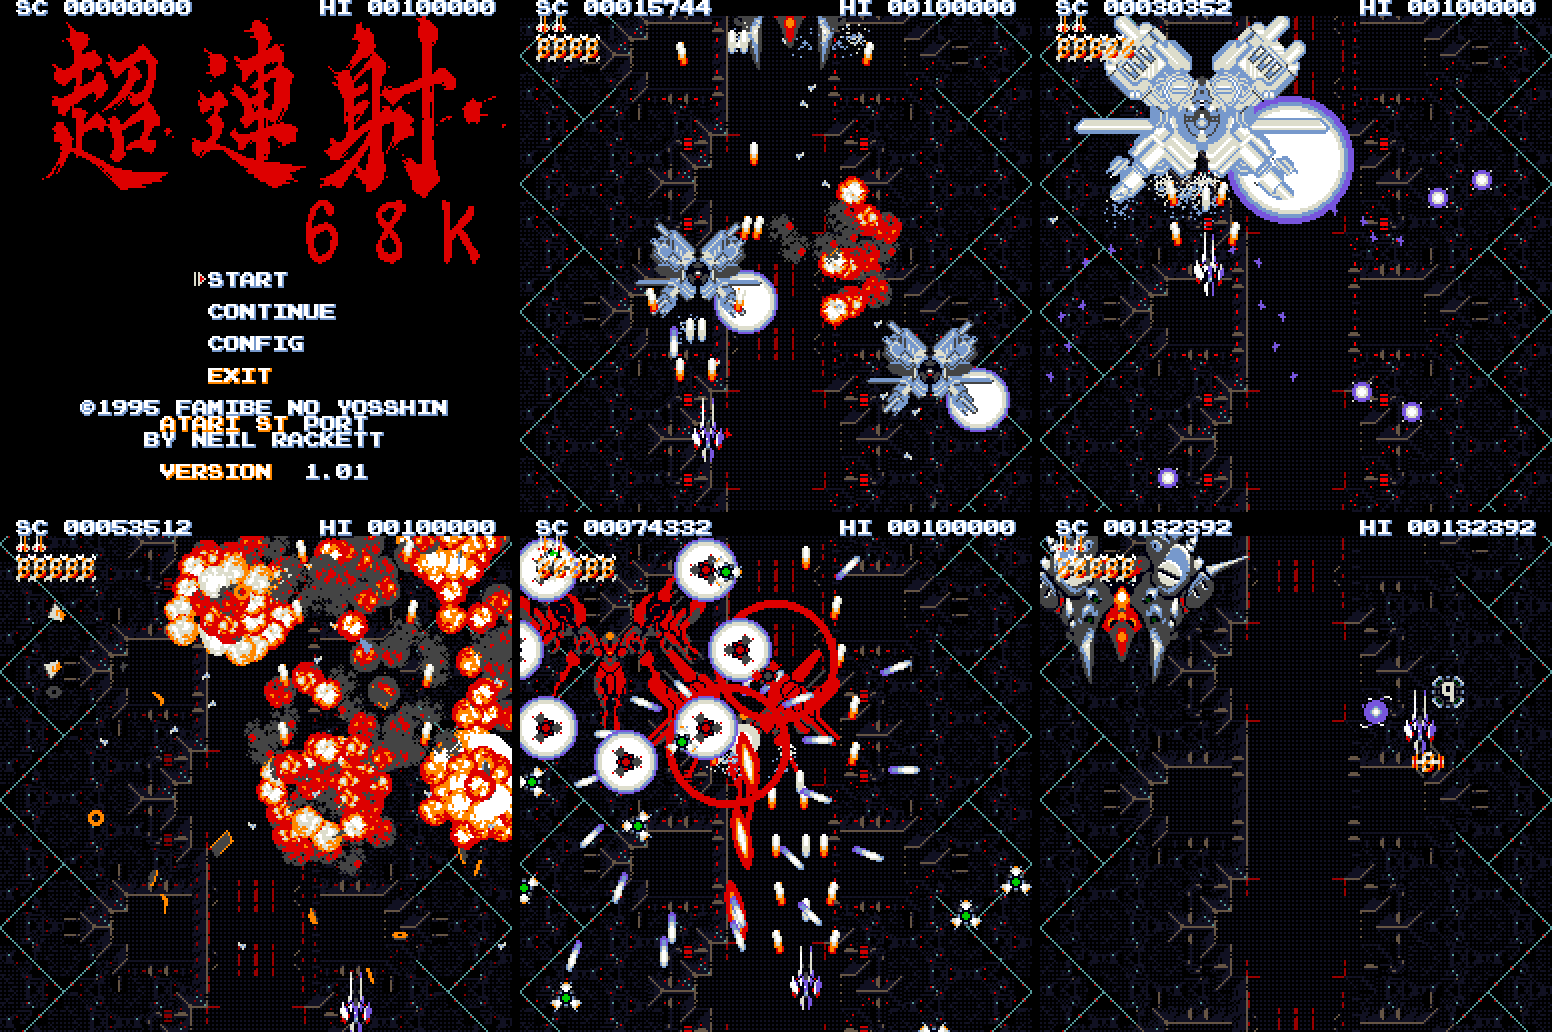
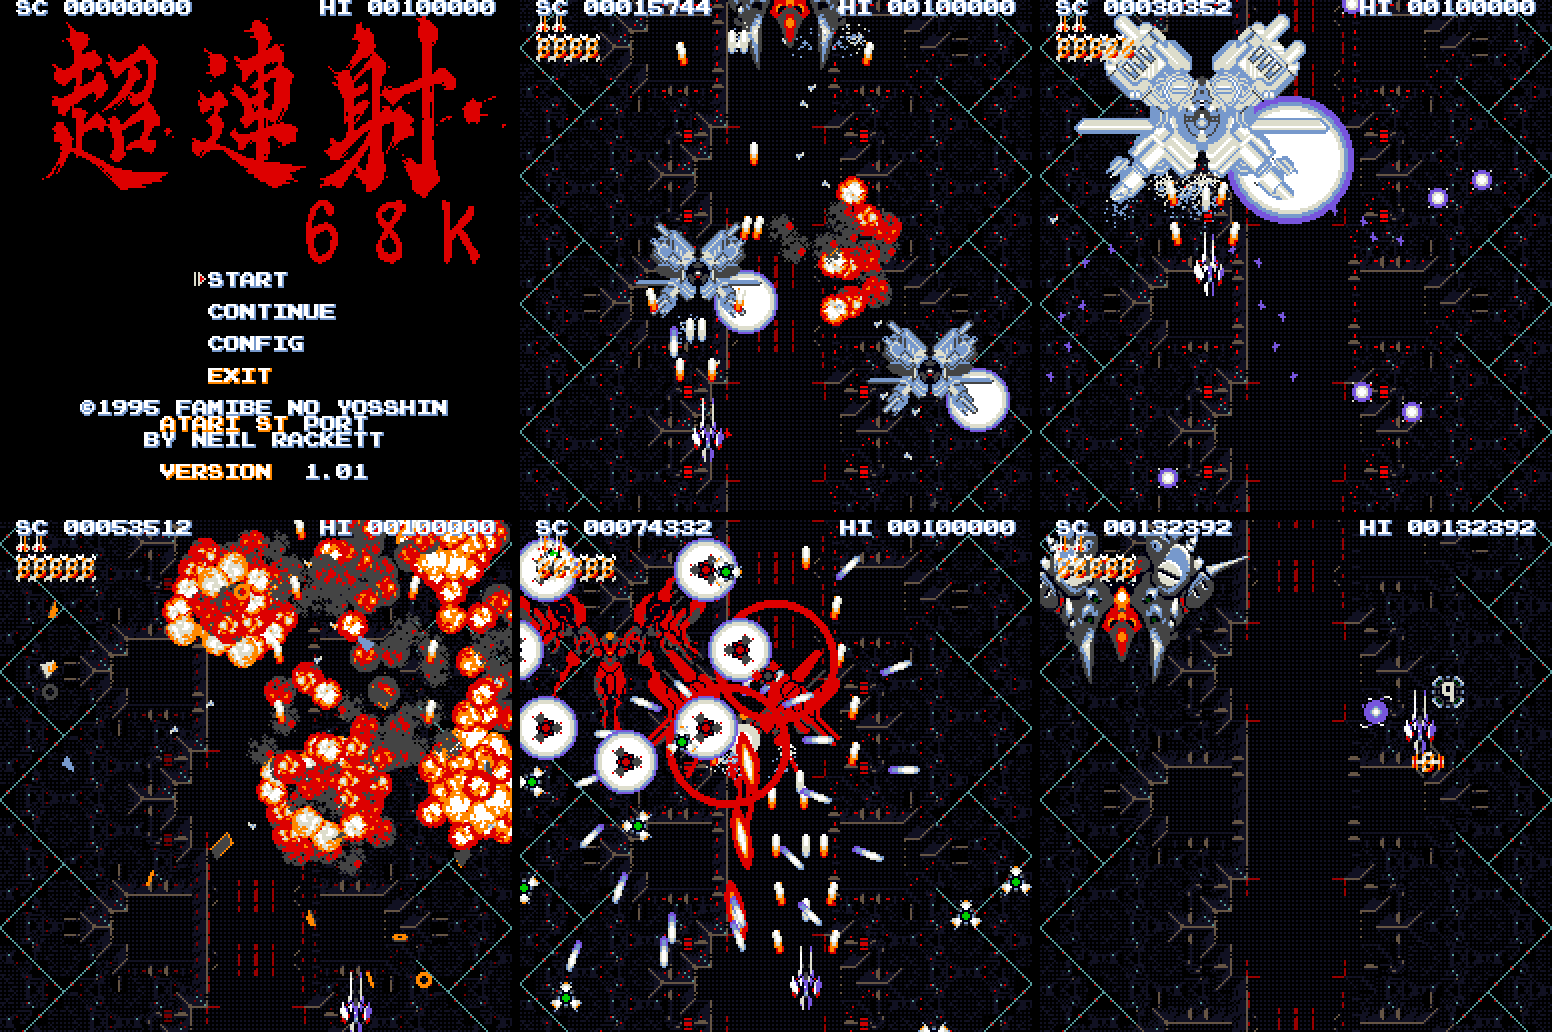
st: the score over the playfield, as on the X68000 (hud=band: a band)
The ST drew the score (the text layer's row 0) into a black band of its
own, lines 0-7 of every screen, once when it changed, with the playfield
below it. On the X68000 the playfield goes on behind it. Now so does the
ST's: in crop the window shows 200 of the playfield's lines, the score
over the top, and at full height all 256. The score is drawn over each
picture, masked, with the lives and bombs (rows 0-3 stay at the top of
the screen).

The band stays as SZ2.CFG's hud=band. Its playfield starts at line 8, a
variable now (display.s: playfield_top), which the background copy, the
sprites' clipping and the text rows read. On an STE the score costs 2.4
ms a picture over the playfield, the background 0.5 and the sprites 1.5:
the attract demo shows 11.6, 11.7 and 16.5 pictures per second on an ST,
an STE and a Mega STE (12.4, 12.5 and 17.2 with the band), 9.6, 9.4 and
14.2 at full height (10.2, 9.9 and 14.8). Every checkpoint matches in
both, and the pixel oracle (refrender.py, told the layout by the frame
dump) is 12 of 12 in both.

The README's screenshots are taken again at the same moments of the
attract demo, at full height.

diff --git a/tools/st/refrender.py b/tools/st/refrender.py
@@ -95,7 +95,7 @@ def font_pixel(font, code, row, x):
 
 
 def render(dump, page0, page1, patterns, font, sprite_map, representatives):
-    (magic, window, visible, _, y0, y1, r1, count) = struct.unpack(">4sHBBhhHH", dump[:16])
+    (magic, window, visible, band, y0, y1, r1, count) = struct.unpack(">4sHBBhhHH", dump[:16])
     if magic != b"CRSF":
         raise SystemExit("not a CRSF frame dump")
     vc = struct.unpack(">512H", dump[16:16 + 0x400])
@@ -105,17 +105,21 @@ def render(dump, page0, page1, patterns, font, sprite_map, representatives):
 
     screen = [[0] * 320 for _ in range(200)]
 
-    # HUD band: text row 0, opaque.
-    for column in range(32):
-        code = characters[column]
-        for r in range(8):
-            for x in range(8):
-                c = font_pixel(font, code, r, x)
-                screen[r][32 + column * 8 + x] = sprite_map[c] if c else 0
+    # The playfield's first line: 0, the score (text row 0) drawn over it as
+    # the other rows, or with hud=band 8, below the HUD band: text row 0,
+    # opaque.
+    top = 8 if band else 0
+    if band:
+        for column in range(32):
+            code = characters[column]
+            for r in range(8):
+                for x in range(8):
+                    c = font_pixel(font, code, r, x)
+                    screen[r][32 + column * 8 + x] = sprite_map[c] if c else 0
 
     # Playfield background.
     if visible:
-        for y in range(8, 200):
+        for y in range(top, 200):
             g = y + window
             a = (g + y0) & 255
             b = (g + y1) & 31
@@ -139,7 +143,7 @@ def render(dump, page0, page1, patterns, font, sprite_map, representatives):
                 data = patterns[pattern * 128:pattern * 128 + 128]
                 for py in range(16):
                     sy = y - 16 - window + py
-                    if sy < 8 or sy > 199:
+                    if sy < top or sy > 199:
                         continue
                     row = 15 - py if info & 0x8000 else py
                     for px in range(16):
@@ -149,15 +153,15 @@ def render(dump, page0, page1, patterns, font, sprite_map, representatives):
                             screen[sy][x + 16 + px] = sprite_map[palette * 16 + nibble]
 
     def draw_text():
-        for row in range(1, 32):
+        for row in range(1 if band else 0, 32):
             for column in range(32):
                 code = characters[row * 32 + column]
                 if code == SPACE:
                     continue
                 for r in range(8):
-                    # Rows 1-3 (lives, bombs) stay at the playfield's top.
+                    # Rows 0-3 (score, lives, bombs) stay at the top.
                     sy = row * 8 + r - (window if row >= 4 else 0)
-                    if sy < 8 or sy > 199:
+                    if sy < top or sy > 199:
                         continue
                     for x in range(8):
                         c = font_pixel(font, code, r, x)
@@ -172,7 +176,7 @@ def render(dump, page0, page1, patterns, font, sprite_map, representatives):
         draw_sprites()
 
     # Borders of the playfield lines.
-    for y in range(8, 200):
+    for y in range(top, 200):
         for x in list(range(32)) + list(range(288, 320)):
             screen[y][x] = 0
 

diff --git a/docs/ST_PORT.md b/docs/ST_PORT.md
@@ -46,6 +46,11 @@ build, against the STE's 946 KB).
 - **Drawing sets the picture rate.** On an STE a picture takes about 45 ms:
   12-13 for the background, 25-28 for the sprites, 3-4 for the text. That
   is about one picture every 4 frames, or every 3 on a Mega STE.
+- **The score over the playfield costs about 6%** (4% on a Mega STE).
+  These figures were measured with the score in its band, as `hud=band`
+  draws it; over the playfield, as on the X68000 and the default since,
+  the attract demo shows 11.6, 11.7 and 16.5 pictures per second on an
+  ST, an STE and a Mega STE (see Display).
 - **The music costs about 1%.** These figures were measured before the
   music (as `music=false` plays). With it, the sprite cache is 30 KB
   smaller, and the attract demo shows 12.5 pictures per second on an ST
@@ -257,15 +262,28 @@ What is new is the picture.
 ST low resolution, triple-buffered, drawn in bitplanes. In crop (the
 default; full height is below):
 
-- **Lines 0-7, the HUD band:** the X68000 text layer's row 0 (score, high
-  score), drawn into all three screens when the game writes it.
-- **Lines 8-199, the playfield:** 192 of the X68000's 256 lines at their
-  real size, 32 pixels from the left.
+- **Lines 0-199, the playfield:** 200 of the X68000's 256 lines at their
+  real size, 32 pixels from the left, with the X68000 text layer's row 0
+  (score, high score) over its top, as on the X68000.
   - In a stage the window follows the ship, which sits two thirds of the
     way down; it moves at most 2 lines per frame.
-  - Elsewhere, or after F2, the window shows lines 32-223, and lines
-    48-239 while the game's hidden menu is open (its title to its EXIT).
-  - The lives and bombs (text rows 1-3) stay at the top of the playfield.
+  - Elsewhere, or after F2, the window shows lines 24-223, and lines
+    40-239 while the game's hidden menu is open (its title to its EXIT).
+  - The score, lives and bombs (text rows 0-3) stay at the top of the
+    screen, drawn over each picture.
+- **With `hud=band`:** lines 0-7 are the HUD band instead, the score drawn
+  into all three screens when the game writes it (opaque, on colour 0),
+  and the playfield is lines 8-199, 192 lines. A picture then draws 8
+  lines of background fewer and the score not at all: on an STE the score
+  costs 2.4 ms a picture over the playfield (about 20 characters, masked),
+  the background 0.5 and the sprites over it 1.5. In the attract demo:
+
+  | Pictures per second        | ST   | STE  | Mega STE |
+  | -------------------------- | ---- | ---- | -------- |
+  | Crop, score over (default) | 11.6 | 11.7 | 16.5     |
+  | Crop, `hud=band`           | 12.4 | 12.5 | 17.2     |
+  | Full height, score over    | 9.6  | 9.4  | 14.2     |
+  | Full height, `hud=band`    | 10.2 | 9.9  | 14.8     |
 
 The screen address is written at a VBL. The colours follow one VBL later,
 when the new picture appears. A presented picture is therefore on screen
@@ -277,9 +295,9 @@ on screen, which by then it nearly always is, and drawing never waits.
 ### Full height (`screen=full`)
 
 With the top and bottom borders open the screen shows 273 lines, enough
-for the X68000's whole picture: the HUD band and the playfield's 248 lines
-(the X68000's lines 8-255; its lines 0-7 are under the HUD), so there is
-no window. The 256 lines are centred, the 17 others black.
+for the X68000's whole picture, its 256 lines with the score over the top
+(with `hud=band`, the HUD band and the playfield's 248 lines below it), so
+there is no window. The 256 lines are centred, the 17 others black.
 
 Both layouts are in every build, chosen when the program starts: the
 playfield's height and the screens' page size and origin are variables
@@ -361,7 +379,7 @@ bitplanes, which replaces GVRAM:
 
 For playfield line g, a = (g + Y0) & 255 and s = ((g + Y1) − a) & 31. Since
 s is the same all the way down, a picture's background is one block of the
-table, wrapping at most once (192 lines x 128 bytes):
+table, wrapping at most once (200 lines x 128 bytes, 192 with `hud=band`):
 
 - **An STE** copies it with the BLiTTER, in HOG mode 8 lines at a time
   (each about 0.5 ms with the interrupts held, well inside an IKBD byte):
@@ -522,10 +540,12 @@ The game's characters go into a 32 x 32 map instead of the X68000's 512 KB
 of text planes:
 
 - `DRAW_CHARACTER` jumps to `st_draw_character`.
-- Row 0 is drawn straight into the HUD band of all three screens.
-- The other rows are drawn over each picture, masked, with `movep`. Only
-  the characters that have pixels are drawn: each row keeps a mask of
-  them.
+- The rows are drawn over each picture, masked, with `movep`; the top four
+  (score, lives and bombs) at the top of the screen, the others through
+  the window. Only the characters that have pixels are drawn: each row
+  keeps a mask of them.
+- With `hud=band` row 0 is drawn straight into the HUD band of all three
+  screens instead, once, when the game writes it.
 
 ### The game code (`sz2.s`)
 
@@ -755,8 +775,9 @@ The X68000's own sprite library code is already tight.
 
 ## Open items and next steps
 
-- **HUD colours.** The score uses the shared sprite/text colours. A Timer B
-  palette change at line 8 would give the HUD band its own exact colours.
+- **HUD colours.** The score uses the shared sprite/text colours. With
+  `hud=band`, a Timer B palette change at line 8 would give the HUD band
+  its own exact colours.
 - **More speed.**
   - The sprite cache switches halves about every 650-700 frames in the
     full game on an STE (470 on a Mega STE, which draws more pictures;

diff --git a/README.md b/README.md
@@ -43,8 +43,10 @@ You can always download the latest build from the
 - An Xpad provider if you'd like to play with a gamepad (see Controls).
 
 Speed: the game itself always runs at full speed (50fps); how many of those
-frames are rendered depends on the machine. An ST or STE shows about 13 per
-second and a Mega STE up to 25 (switched to 16MHz with cache automatically).
+frames are rendered depends on the machine. An ST or STE shows about 12 per
+second and a Mega STE up to 25 (switched to 16MHz with cache automatically);
+with the score in a band of its own (`hud=band`, see Configuration) about 6%
+more.
 At full height (see Configuration) you lose about 20% of the framerate,
 but gain 20% more screen.
 
@@ -95,7 +97,8 @@ value it cannot read, is named on the start-up screen and ignored.
 
 | Setting           | Default | Meaning                                                                                                                                                 |
 | ----------------- | ------- | ------------------------------------------------------------------------------------------------------------------------------------------------------- |
-| `screen`          | `crop`  | `crop`: the 200-line screen, 192 of the playfield's lines in a window that follows the ship. `full`: both borders open, 273 lines and the whole picture |
+| `screen`          | `crop`  | `crop`: the 200-line screen, 200 of the playfield's 256 lines in a window that follows the ship. `full`: both borders open, 273 lines and the whole picture |
+| `hud`             | `over`  | `over`: the score over the top of the playfield, as on the X68000. `band`: in a black band of its own, 8 lines fewer of playfield, about 6% more pictures per second |
 | `megaste_speedup` | `true`  | `false`: a Mega STE stays at 8MHz without its cache (for testing)                                                                                       |
 | `music`           | `true`  | `false`: no music                                                                                                                                       |
 | `lockstep`        | `false` | `true`: every frame drawn from the start (F1 switches it)                                                                                               |
